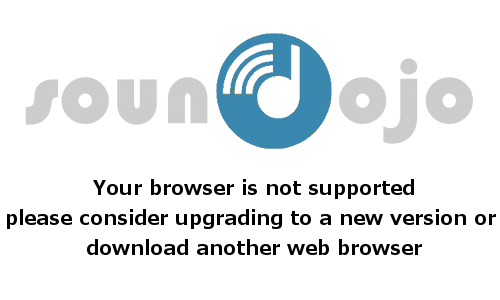
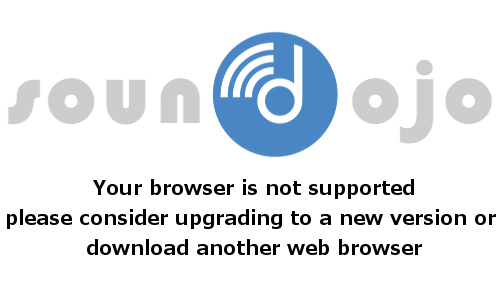
Imporved not supported message quality Added minified libraries

Changed region(s): [[0.0, 0.09, 0.99, 0.54]]

diff --git a/webapp/src/controller.js b/webapp/src/controller.js
@@ -1,18 +1,18 @@
 var sounDojo;
 
-var timeout;
+var searchTimeout;
 function delayedSearch(value) {
 	sounDojo.onSearchStarted();
-	if (timeout !== undefined)
-		window.clearTimeout(timeout);
-	timeout = setTimeout(function() {
+	if (searchTimeout !== undefined)
+		window.clearTimeout(searchTimeout);
+	searchTimeout = setTimeout(function() {
 		sounDojo.search(value);
 	}, 1000);
 }
 
-function onYouTubePlayerAPIReady() {
+$(document).ready(function() {
 	sounDojo = new SounDojo();
-	
+
 	sounDojo.onPlay = function() {
 		if (document.getElementById('play') != null)
 			document.getElementById('play').id = 'pause';
@@ -47,28 +47,28 @@ function onYouTubePlayerAPIReady() {
 			refillTrackList();
 		else
 			showLoadingError(param);
-		
+
 		stopWaiting();
 	}
-	
+
 	sounDojo.onLastFmLogin = function() {
-			showLastfmLoginState();
-			setTimeout(loadHome, 100);	
+		showLastfmLoginState();
+		setTimeout(loadHome, 100);
 	}
 
 	sounDojo.onLastFmLogout = function() {
-			showLastfmLoginState();
-			setTimeout(loadHome, 100);
+		showLastfmLoginState();
+		setTimeout(loadHome, 100);
 	}
 
-	sounDojo.onTrackLoved = function(track,artist) {
-			showInfo("You loved "+track,"img/controls-love.png");
+	sounDojo.onTrackLoved = function(track, artist) {
+		showInfo("You loved " + track, "img/controls-love.png");
 	}
 
-	sounDojo.onTrackBanned = function(track,artist) {
-			showInfo("You banned "+track,"img/controls-ban.png");
+	sounDojo.onTrackBanned = function(track, artist) {
+		showInfo("You banned " + track, "img/controls-ban.png");
 	}
-
+	
 	sounDojo.init();
 	initUI();
-}
+});

diff --git a/webapp/index.html b/webapp/index.html
@@ -21,13 +21,13 @@
 		<meta name="description" content="SounDoJo is a web based music player. It combines multiple on-line services to deliver a great music listening experience. It allows to listen freely to an immense music library and it supports intelligent playlists."/>
 		<meta name="keywords" content="music,last.fm,web player,player,streaming"/>
 		<link rel="apple-touch-icon" href="img/icon.png"/>
-		<link rel="stylesheet" href="jquery.mobile-1.3.0/jquery.mobile-1.3.0.css" type="text/css">
+		<link rel="stylesheet" href="jquery.mobile-1.3.0/jquery.mobile-1.3.0.min.css" type="text/css">
 		<link rel="stylesheet" href="css/dojo.css" type="text/css">
 		<link rel="shortcut icon" href="img/favicon.ico" />
 		<script type="text/javascript" src="http://www.youtube.com/player_api"></script>
 		<script type="text/javascript" src="src/jquery-1.8.2.min.js"></script>
 		<script type="text/javascript" src="src/jstorage.js"></script>
-		<script type="text/javascript" src="jquery.mobile-1.3.0/jquery.mobile-1.3.0.js"></script>
+		<script type="text/javascript" src="jquery.mobile-1.3.0/jquery.mobile-1.3.0.min.js"></script>
 		<script type="text/javascript" src="src/utils.js"></script>
 		<script type="text/javascript" src="src/md5.js"></script>
 		<script type="text/javascript" src="src/lastfm.js"></script>
